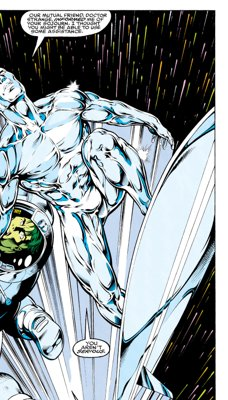
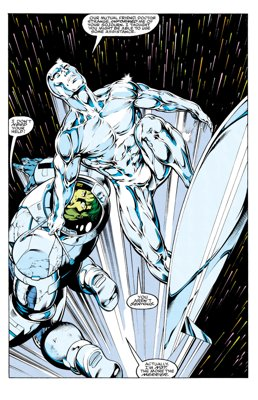
Relax Flair #021 source crop so Surfer’s head stays in frame.
Use a near-full Hulk #414 page 20 splash instead of the aggressive Surfer cutout.

diff --git a/94flair/index.html b/94flair/index.html
@@ -1,7 +1,7 @@
 <!DOCTYPE html>
 <html lang="en">
 <head>
-<meta name="x-flair-deploy" content="2026-10-18T18:50:00Z">
+<meta name="x-flair-deploy" content="2026-10-18T19:00:00Z">
 <meta charset="UTF-8">
 <meta name="viewport" content="width=device-width, initial-scale=1.0">
 <title>'94 Flair Presents the Marvel Universe &mdash; Masterset Checklist</title>
